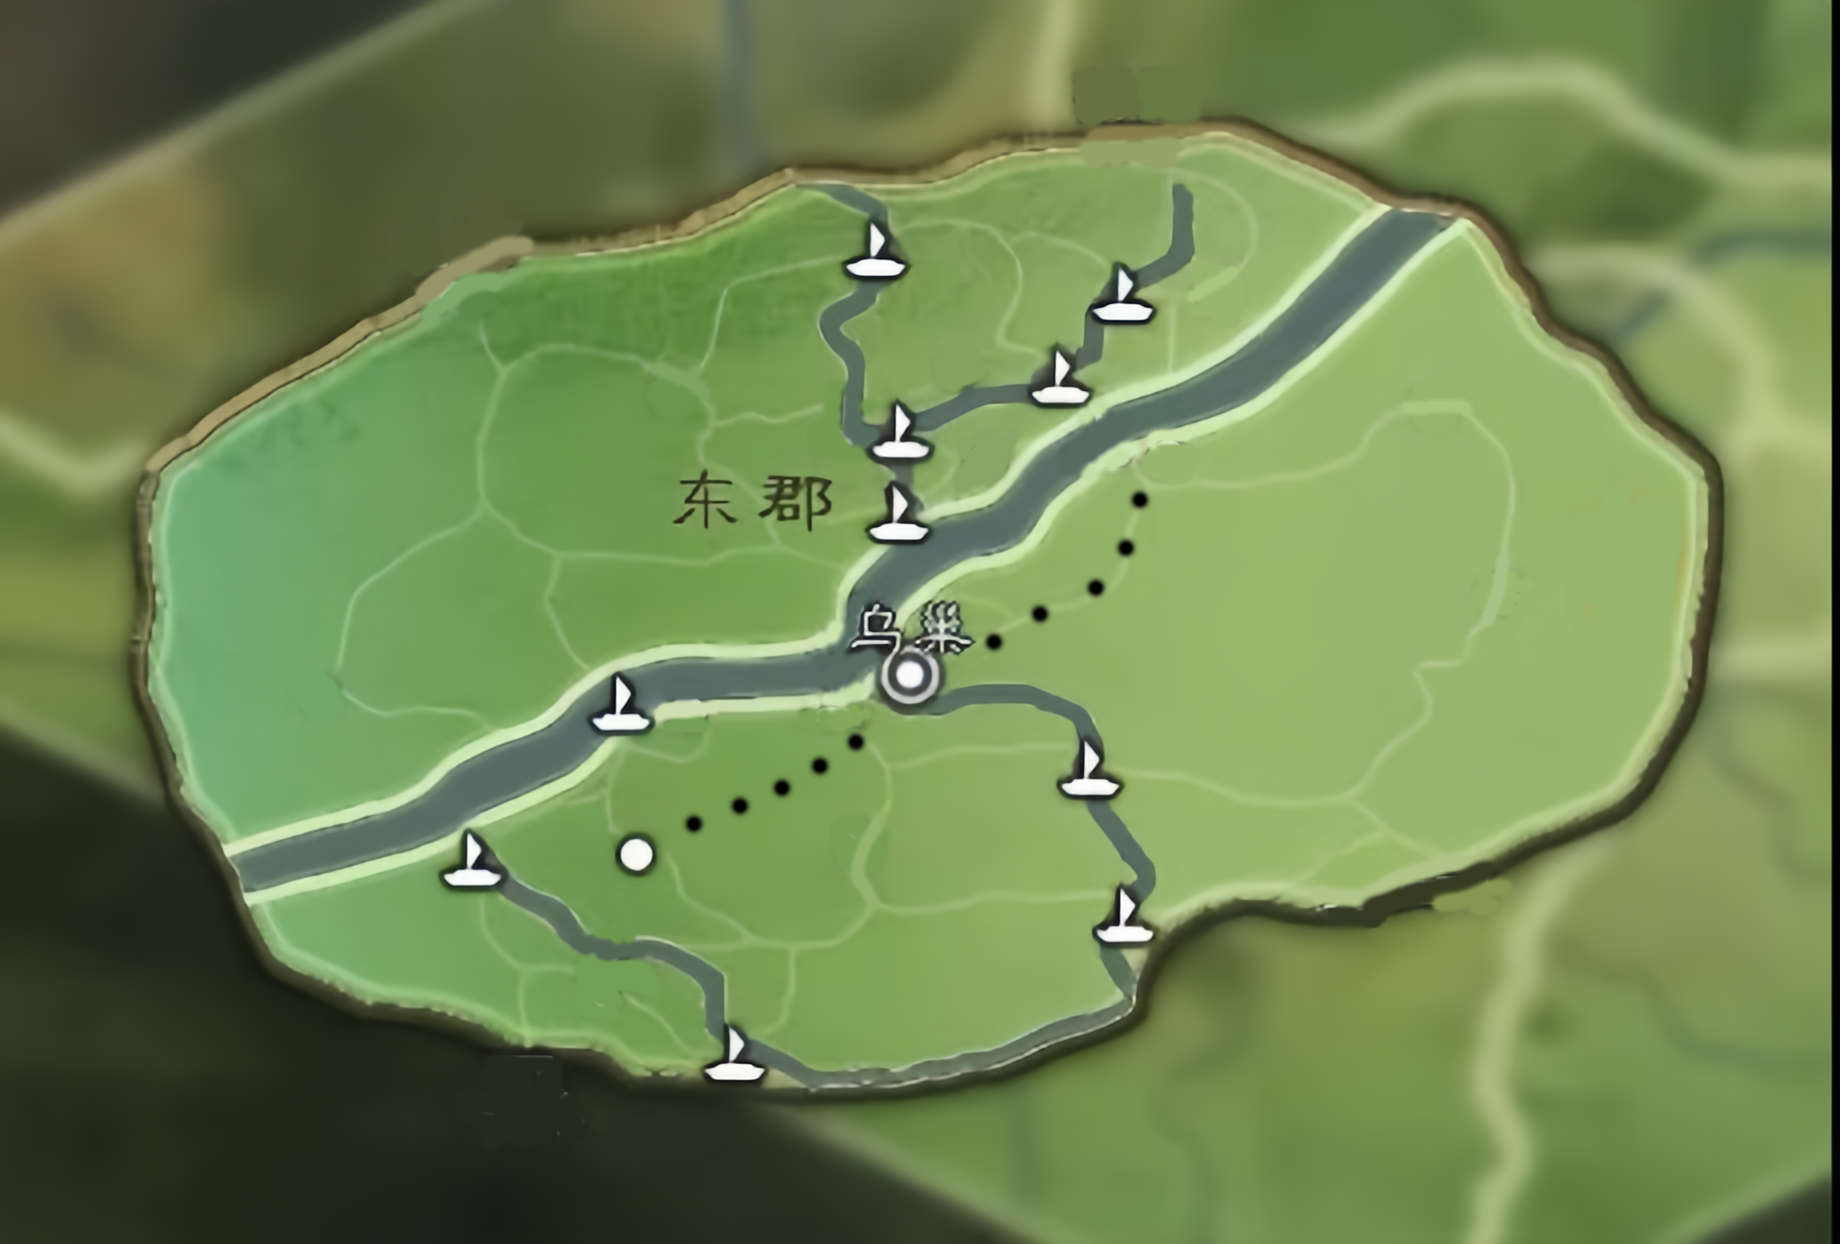
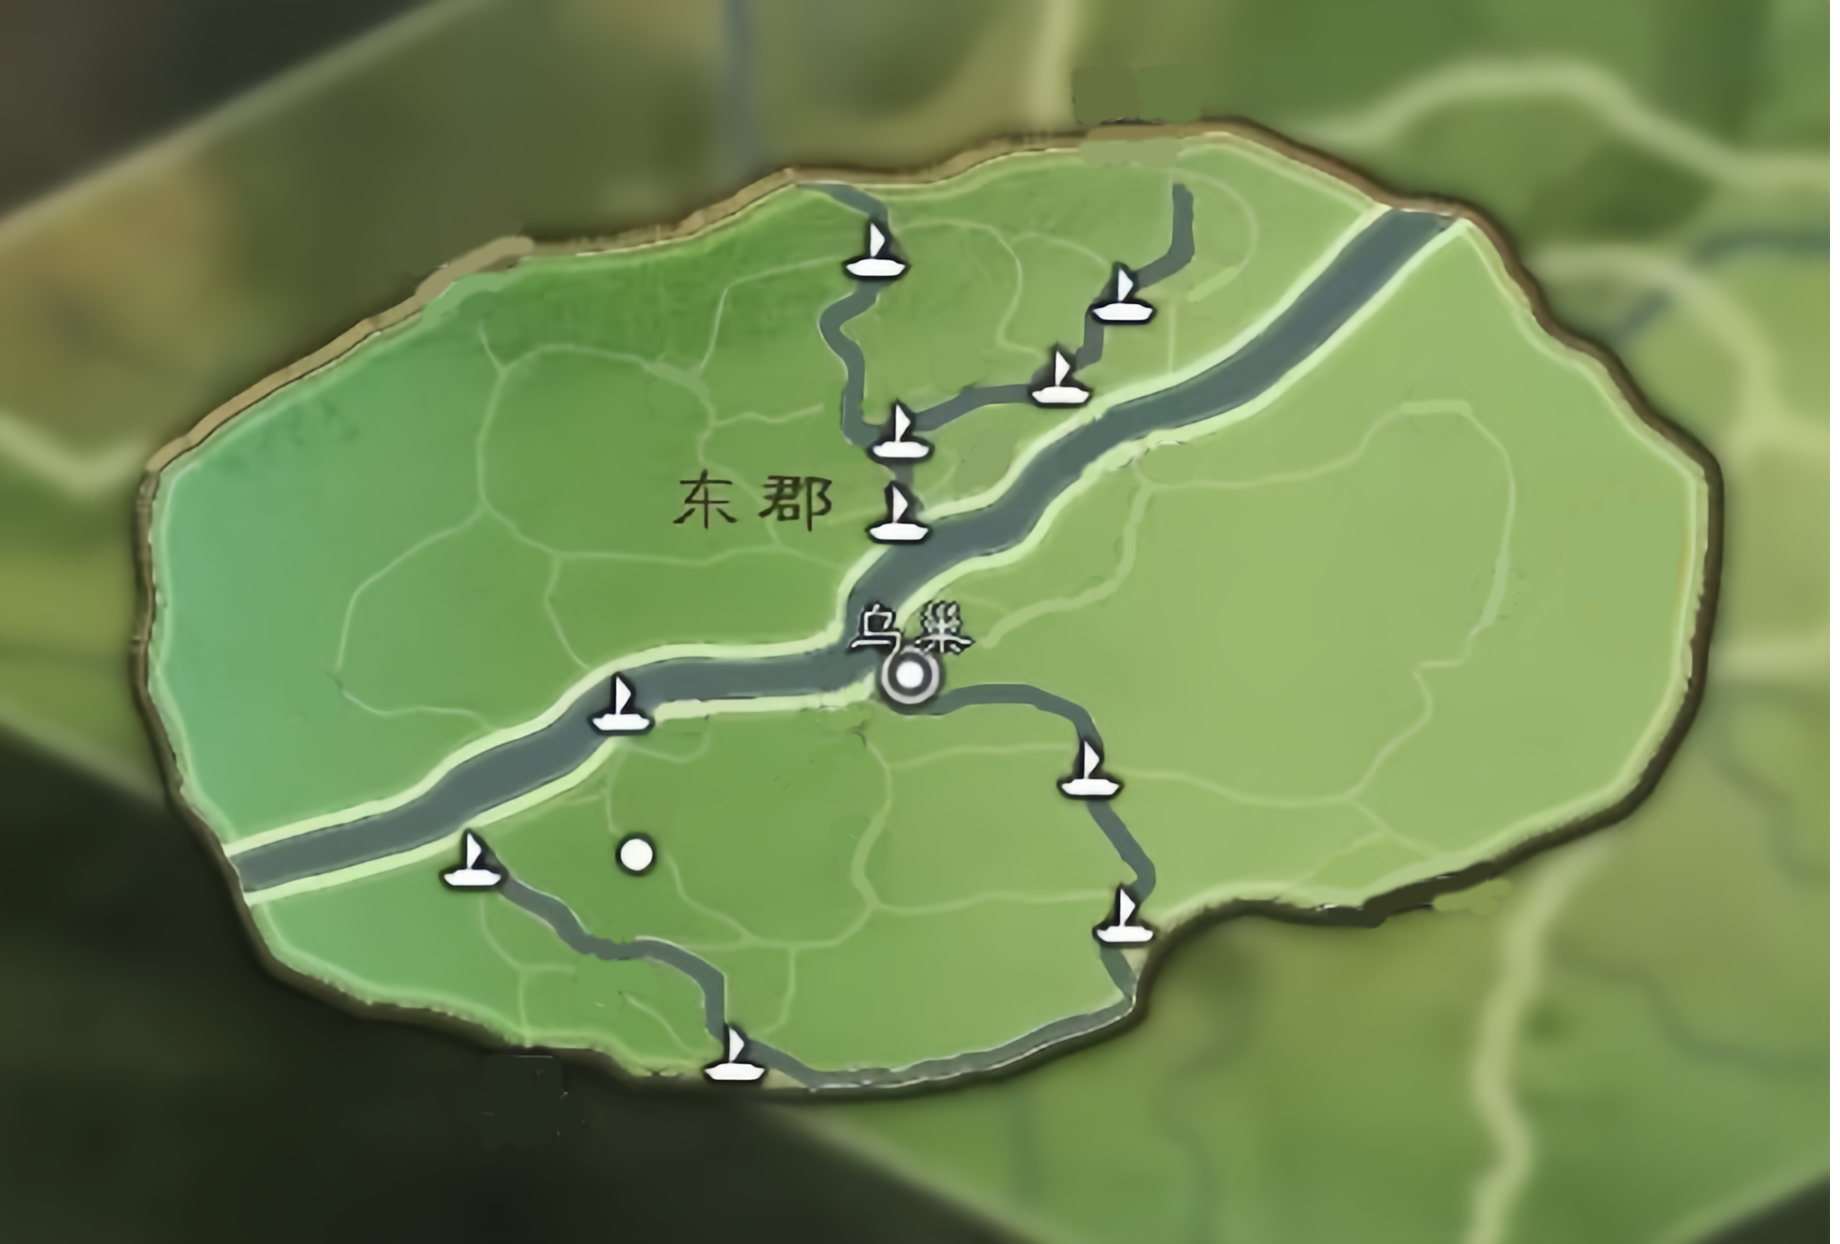
Add files via upload

diff --git a/StageSelection/Stagechoice1.cpp b/StageSelection/Stagechoice1.cpp
@@ -1,66 +1,87 @@
 #include "Stagechoice1.h"
+#include"levelgenerator.h"
 
 Stagechoice1::Stagechoice1(QWidget* parent)
     : QWidget(parent)
 {
     ui.setupUi(this);
-    MyPushButton* btn1 = new MyPushButton(QString(":/Stagechoice1/src/image/back1.png"),QString(":/Stagechoice1/src/image/back2.png"));
-    MyPushButton* btn2 = new MyPushButton(QString(":/Stagechoice1/src/image/battle1.png"), QString(":/Stagechoice1/src/image/battle2.png"));
-    MyPushButton* btn3 = new MyPushButton(QString(":/Stagechoice1/src/image/battle1.png"), QString(":/Stagechoice1/src/image/battle2.png"));
-    MyPushButton* btn4 = new MyPushButton(QString(":/Stagechoice1/src/image/boss1.png"), QString(":/Stagechoice1/src/image/boss2.png"));
-    MyPushButton* btn5 = new MyPushButton(QString(":/Stagechoice1/src/image/settings1.png"), QString(":/Stagechoice1/src/image/settings2.png"));
-    btn1->setParent(this);
-    btn2->setParent(this);
-    btn3->setParent(this);
-    btn4->setParent(this);
-    btn5->setParent(this);
-    btn1->move(40,40);
-    connect(btn1, &MyPushButton::pressed, [=]() {
-        btn1->move1();
-        });
-    connect(btn1, &MyPushButton::released, [=]() {
-        btn1->move2();
-        });
-    btn2->move(415, 455);
-    connect(btn2, &MyPushButton::pressed, [=]() {
-        btn2->move1();
-        });
-    connect(btn2, &MyPushButton::released, [=]() {
-        btn2->move2();
-        });
-    btn3->move(605, 370);
-    connect(btn3, &MyPushButton::pressed, [=]() {
-        btn3->move1();
-        });
-    connect(btn3, &MyPushButton::released, [=]() {
-        btn3->move2();
-        });
-    btn4->move(770, 200);
-    connect(btn4, &MyPushButton::pressed, [=]() {
-        btn4->move1();
-        });
-    connect(btn4, &MyPushButton::released, [=]() {
-        btn4->move2();
-        });
-    btn5->move(1160, 40);
-    connect(btn5, &MyPushButton::pressed, [=]() {
-        btn5->move1();
-        });
-    connect(btn5, &MyPushButton::released, [=]() {
-        btn5->move2();
-        });
 
-    QLabel* backgroundLabel = new QLabel(this);
-    backgroundLabel->setObjectName("backgroundLabel");
-    backgroundLabel->setScaledContents(true);
-    this->setStyleSheet("QLabel#backgroundLabel {"
-                    "  border-image: url(:/Stagechoice1/src/image/map.png);"
-                    "}");
-    QVBoxLayout* layout = new QVBoxLayout(this);
-    layout->addWidget(backgroundLabel);
-    this->setLayout(layout);
-    backgroundLabel->lower();
+    LevelGenerator generator;
+    for(int i = 0;i<9;i++){
+        btn.push_back(new MyPushButton (i,QString(":/Stagechoice1/res/image/battle1.png"), QString(":/Stagechoice1/res/image/battle2.png")));
+        btn[i]->setParent(this);
+        connect(btn[i], &MyPushButton::pressed, [=]() {
+            btn[i]->move1();
+        });
+        connect(btn[i], &MyPushButton::released, [=]() {
+            btn[i]->move2();
+        });
+        connect(btn[i],&MyPushButton::clicked,btn[i],&MyPushButton::nosend);
+        connect(btn[i],SIGNAL(nosended(int)),this,SLOT(levelChose(int)));
+
+        connect(btn[i],&MyPushButton::clicked,btn[i],&MyPushButton::nosend);
+        connect(btn[i],SIGNAL(nosended(int)),this,SLOT(levelClear(int)));
+        //目前上面两个都是点击触发（点关和通关）
+    }
+
+    connect(&generator, &LevelGenerator::levelGenerated, this, &Stagechoice1::handleLevelGenerated);
+    generator.generateLevel();
+
+     //10是boss按钮11是返回按钮12是设置按钮
+    btnel.push_back(new MyPushButton (10,QString(":/Stagechoice1/res/image/boss1.png"), QString(":/Stagechoice1/res/image/boss2.png")));
+    btnel.push_back(new MyPushButton (11,QString(":/Stagechoice1/res/image/back1.png"), QString(":/Stagechoice1/res/image/back2.png")));
+    btnel.push_back(new MyPushButton (12,QString(":/Stagechoice1/res/image/settings1.png"), QString(":/Stagechoice1/res/image/settings2.png")));
+    for(int i = 0;i<3;i++){
+        btnel[i]->setParent(this);
+        connect(btnel[i], &MyPushButton::pressed, [=]() {
+            btnel[i]->move1();
+        });
+        connect(btnel[i], &MyPushButton::released, [=]() {
+            btnel[i]->move2();
+        });
+    }
+
+    btnel[0]->move(970,330);
+    btnel[1]->move(60,60);
+    btnel[2]->move(1140,55);
+
 }
 
 Stagechoice1::~Stagechoice1()
 {}
+
+void Stagechoice1::drawDashedLine(QPoint start,QPoint end) {
+    QPainter painter(this); // 创建一个绘图对象，并将其与当前窗口关联
+    QPoint px = start;
+    QPoint py = end;
+    px.setX(start.x()+30);
+    px.setY(start.y()+30);
+    py.setX(end.x()+30);
+    py.setY(end.y()+30);
+    painter.setPen(Qt::black); // 设置画笔颜色为黑色
+    painter.setRenderHint(QPainter::Antialiasing, true); // 设置抗锯齿渲染
+    painter.setPen(Qt::DashLine); // 设置画笔样式为虚线
+    painter.drawLine(px, py); // 绘制虚线
+}
+
+
+void Stagechoice1::handleLevelGenerated(QList<lnode> nodes, QList<QPair<int, int>> edges,int branchno) {
+    currentnode = 0;
+    nodesm = nodes;
+    edgesm = edges;
+    branch = branchno;
+    for(int i = 0;i<9;i++){
+
+        btn[i]->move(nodes[i].position);
+    }
+
+}
+
+void Stagechoice1::levelClear(int node){
+    currentnode = node;
+    update();
+}
+void Stagechoice1::levelChoose(int node){
+
+}
+

diff --git a/StageSelection/Stagechoice1.h b/StageSelection/Stagechoice1.h
@@ -4,16 +4,82 @@
 #include <QLabel>
 #include <QLayout>
 #include "ui_Stagechoice1.h"
+#include <QGraphicsView>
+#include <QGraphicsScene>
+#include <QGraphicsEllipseItem>
+#include <QVector>
+#include <QPainter>
+#include <QImage>
+#include<QPair>
+#include"levelgenerator.h"
 #include "StageSelection/MyPushButton.h"
+#include<QDebug>
+
 
 class Stagechoice1 : public QWidget
 {
     Q_OBJECT
 
 public:
+    QVector<MyPushButton*>btn;
+    QVector<MyPushButton*>btnel;
+    QList<lnode> nodesm;
+    QList<QPair<int, int>> edgesm;
+    int branch;
+    int currentnode;
+    int bossable = 0;
+    int chosen;
+
+    void drawDashedLine(QPoint start,QPoint end);
     Stagechoice1(QWidget *parent = nullptr);
     ~Stagechoice1();
 
+public slots:
+    void handleLevelGenerated(QList<lnode> nodes, QList<QPair<int, int>> edges,int branchno);
+    void levelClear(int node); //通关处理槽函数
+    void levelChoose(int node);//关卡点击处理槽函数
+
+protected:
+    void paintEvent(QPaintEvent *event) override {
+        // 绘制背景
+        QPainter painter(this);
+        QPixmap background = QPixmap(":/Stagechoice1/res/image/map.png");
+        painter.drawPixmap(0, 0,1280,720, background);
+
+        for(int i = 0;i< edgesm.size();i++){
+            if(currentnode == branch+1||currentnode == branch+2){
+                chosen = currentnode;
+            }
+            if(currentnode == 8){
+                bossable = 1;
+            }
+             if(edgesm[i].first <= currentnode){
+                qDebug() <<"chosen:" << chosen;
+                if(i >= 2 && edgesm[i].second -3 != branch){
+                    drawDashedLine(nodesm[edgesm[i].first].position,nodesm[edgesm[i].second].position);
+                 }
+                else if(i<2){
+                    drawDashedLine(nodesm[edgesm[i].first].position,nodesm[edgesm[i].second].position);
+                }
+                else if(edgesm[i].first == chosen){
+                    drawDashedLine(nodesm[edgesm[i].first].position,nodesm[edgesm[i].second].position);
+                }
+                else if(bossable == 1){
+                    drawDashedLine(QPoint(900,340),QPoint(1000,340));
+                }
+
+                else{
+
+                }
+
+            }
+        }
+
+}
+
+
 private:
     Ui::Stagechoice1Class ui;
+
 };
+

diff --git a/StageSelection/levelgenerator.cpp b/StageSelection/levelgenerator.cpp
@@ -1,0 +1,66 @@
+#include "levelgenerator.h"
+
+LevelGenerator::LevelGenerator(QObject *parent)
+    : QObject{parent}
+{
+
+}
+
+
+void LevelGenerator::generateLevel() {
+
+    QList<lnode> nodes;
+    QList<QPair<int, int>> edges;
+    nodes.resize(9);
+
+    for (int i = 0; i < 9; ++i) {
+        nodes[i].position = QPoint(100,100);
+        nodes[i].currentlevel = 0;
+        nodes[i].leveltype = (rand() % (3-1+1))+ 1;
+    }
+
+    QList<int> permutation;
+    for (int i = 0; i < nodes.size(); ++i) {
+        permutation << i;
+    }
+
+    std::shuffle(permutation.begin(), permutation.end(),std::default_random_engine(time(NULL)));
+
+    // 生成边
+    std::random_device rd;
+    std::mt19937 gen(rd());
+    std::uniform_int_distribution<> dis(2, nodes.size() - 4);
+    int branchIndex = dis(gen);
+
+    // 根据分叉节点生成边
+    for (int i = 1; i < nodes.size() - 2; ++i) {
+        edges << qMakePair(i - 1, i);
+        if (i == branchIndex) {
+            edges << qMakePair(i, i + 2);
+            edges << qMakePair(i, i + 1);
+            i=i+2;
+            edges << qMakePair(i - 1, i+1);
+        }
+    }
+    edges << qMakePair(nodes.size() - 3, nodes.size() - 2)
+          << qMakePair(nodes.size() - 2, nodes.size() - 1);
+
+    // 生成节点
+    for(int i = 0,branch = 0;i<nodes.size();i++){
+        if (i == branchIndex) {
+           nodes[i].position = QPoint((i+1-branch)*100+70,340);
+           nodes[i+2].position = QPoint((i+2-branch)*100+70,260);
+           nodes[i+1].position = QPoint((i+2-branch)*100+70,420);
+           nodes[i+3].position = QPoint((i+3-branch)*100+70,340);
+           branch++;
+           i=i+3;
+        }
+        else{
+           nodes[i].position = QPoint((i+1-branch)*100+70,340);
+        }
+    }
+    nodes[0].currentlevel = true;
+
+    // 发送生成的关卡信息
+    emit levelGenerated(nodes, edges,branchIndex);
+}

diff --git a/StageSelection/MyPushButton.h b/StageSelection/MyPushButton.h
@@ -13,14 +13,18 @@ class MyPushButton : public QPushButton
 public:
     //    explicit MyPushButton(QWidget *parent = nullptr);
         //构造函数,参数:正常的图片路径,按下后的图片路径
-    MyPushButton(QString normal, QString press = "");
+    MyPushButton(int btnno,QString normal, QString press = "");
+    int btnid;
     QString normal_img;//正常路径
     QString press_img;//按下后的路径
-    void move1();//点击
-    void move2();//松开
+    void move1();//点击上移
+    void move2();//松开下移
 
 signals:
+    int nosended(int btnid);
 
+public slots:
+    void nosend();
 };
 
 #endif // MYPUSHBUTTON_H

diff --git a/StageSelection/levelgenerator.h b/StageSelection/levelgenerator.h
@@ -1,0 +1,33 @@
+#ifndef LEVELGENERATOR_H
+#define LEVELGENERATOR_H
+
+#include <QObject>
+#include <QtWidgets>
+#include <algorithm>
+#include <ctime>
+#include <random>
+#include <QPoint>
+#include <QDebug>
+
+struct lnode{
+    QPoint position;
+    int leveltype;
+    bool currentlevel;
+};
+
+
+class LevelGenerator : public QObject
+{
+    Q_OBJECT
+public:
+
+    explicit LevelGenerator(QObject *parent = nullptr);
+
+signals:
+    void levelGenerated(QList<lnode> nodes, QList<QPair<int, int>> edges,int branch);
+
+public slots:
+    void generateLevel();
+};
+
+#endif // LEVELGENERATOR_H

diff --git a/StageSelection/MyPushButton.cpp b/StageSelection/MyPushButton.cpp
@@ -25,10 +25,11 @@ void MyPushButton::move2()
     this->move(w);
 }
 
-MyPushButton::MyPushButton(QString nor, QString pre)
+MyPushButton::MyPushButton(int btnno,QString nor, QString pre)
 {
     this->normal_img = nor;
     this->press_img = pre;
+    this->btnid = btnno;
 
     QPixmap map;
     map.load(nor);
@@ -39,4 +40,8 @@ MyPushButton::MyPushButton(QString nor, QString pre)
     //设置图片
     this->setIcon(map);
     this->setIconSize(QSize(map.width(), map.height()));
+}
+
+void MyPushButton::nosend(){
+    emit nosended(btnid);
 }
